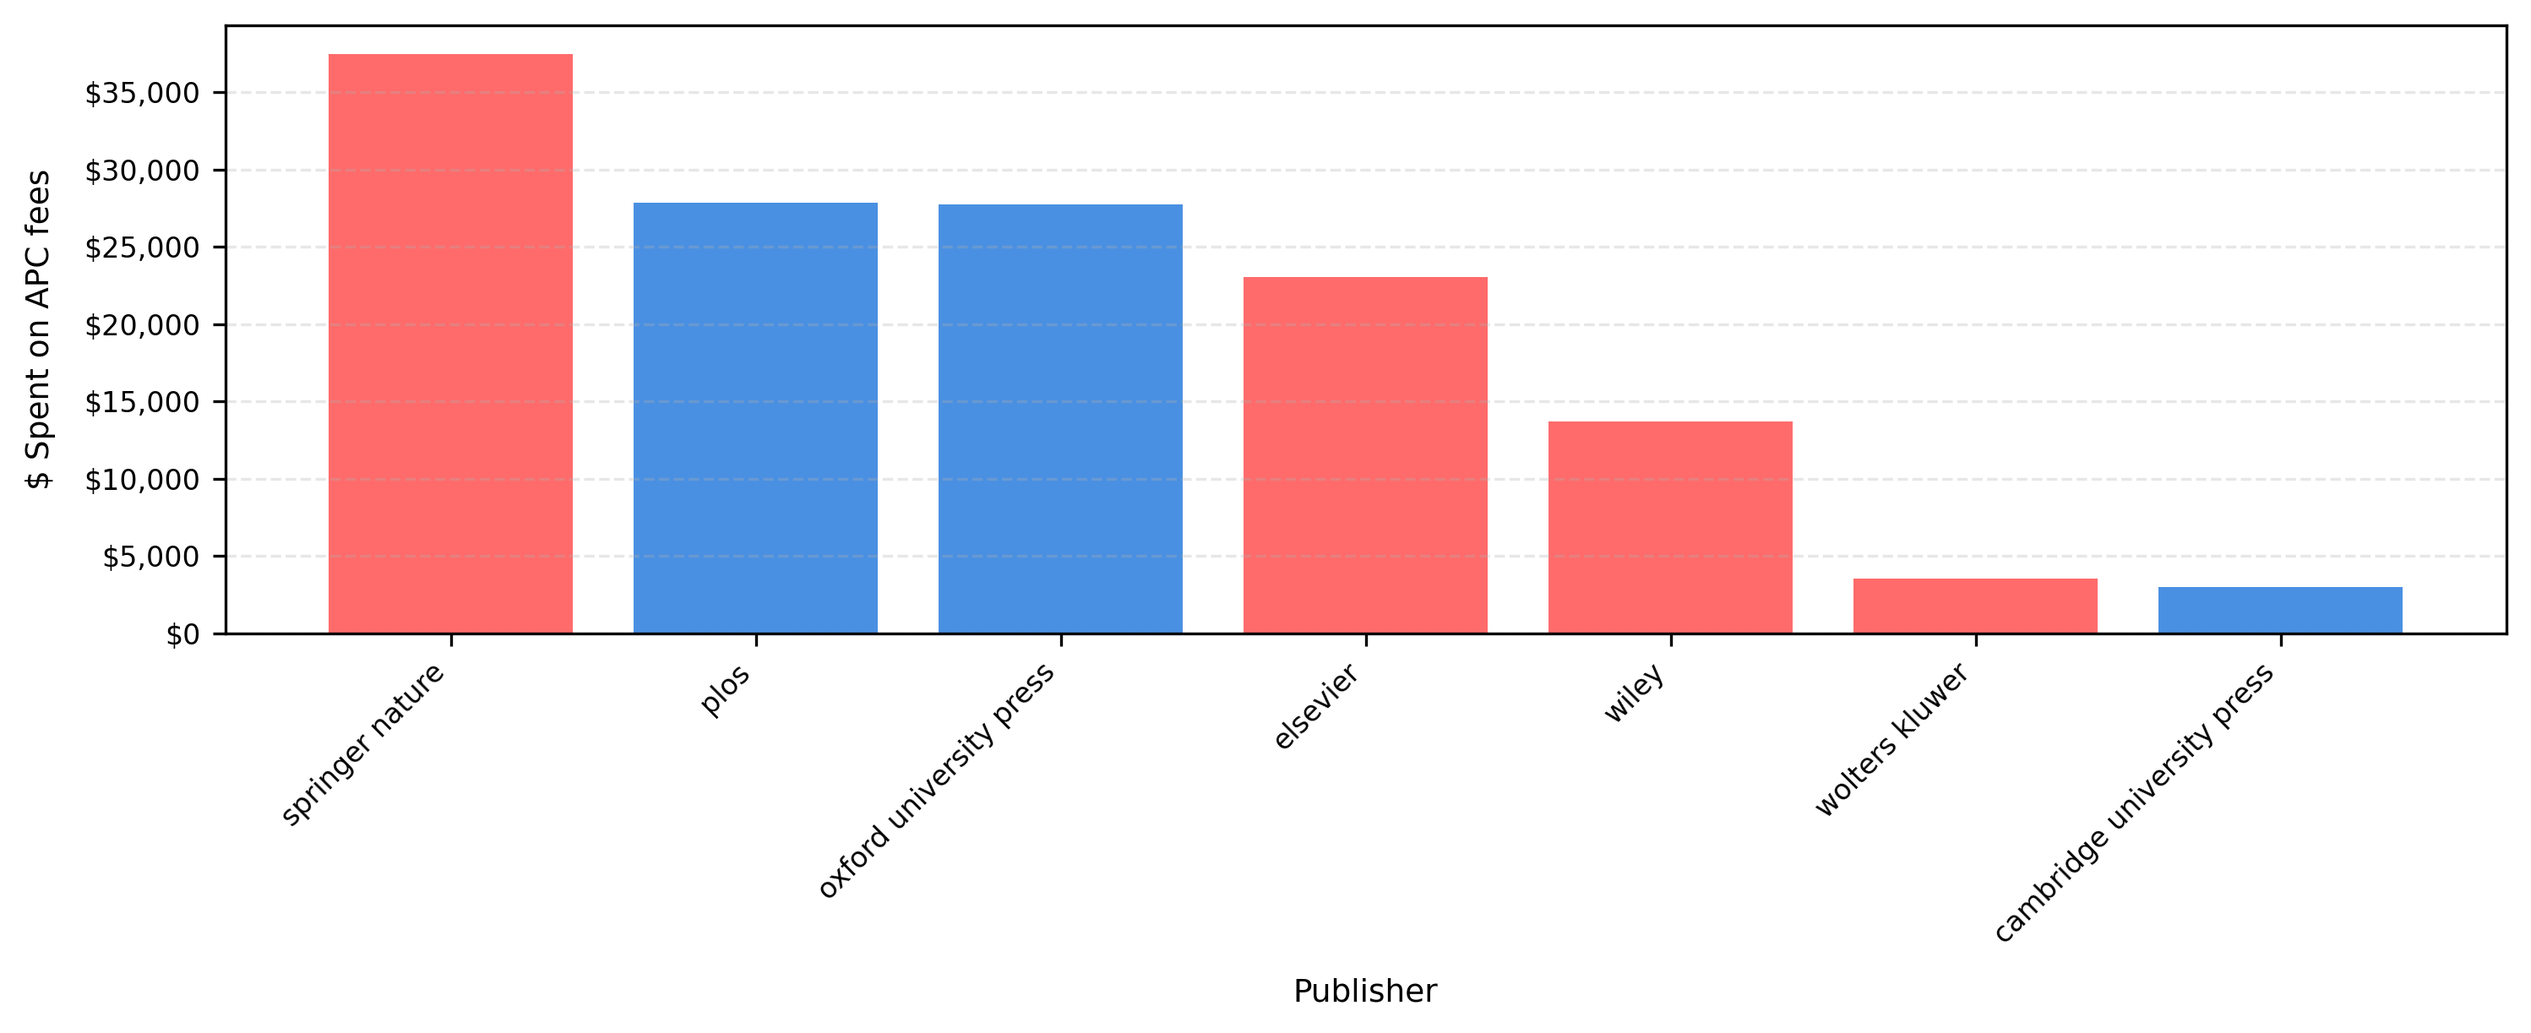
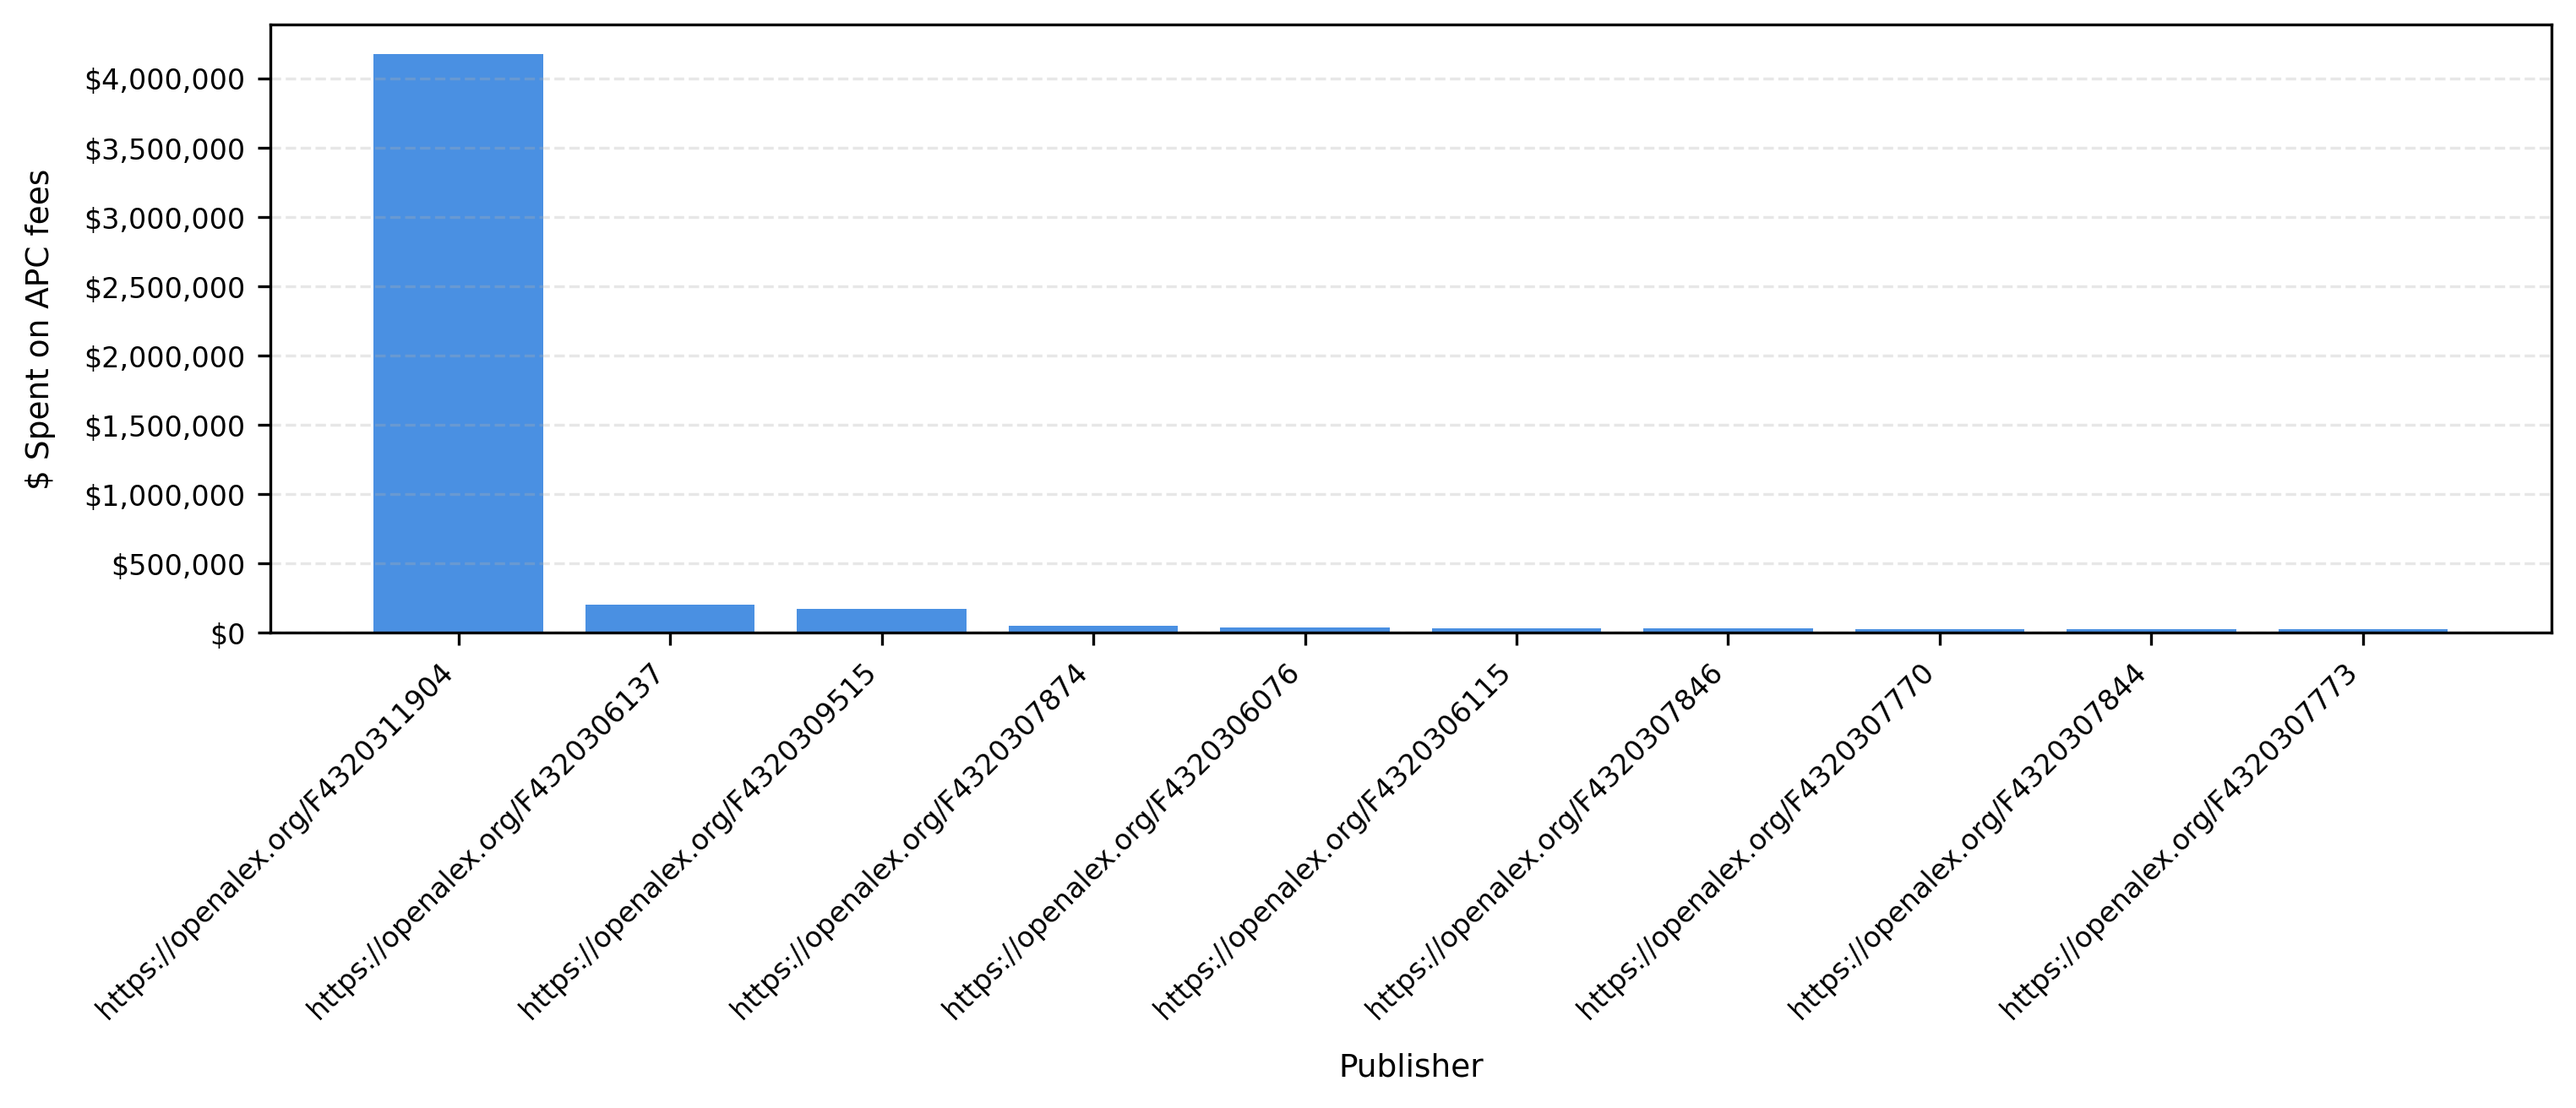
added funder costs
added funder costs

diff --git a/pubanalyser.py b/pubanalyser.py
@@ -4,7 +4,7 @@ from collections import Counter
 import matplotlib.pyplot as plt
 import matplotlib.ticker as mticker
 import pyalex
-from pyalex import Author, Authors, Work, Works, Publisher, Publishers, Institution, Institutions
+from pyalex import Author, Authors, Work, Works, Publisher, Publishers, Institution, Institutions, Funder, Funders
 from rich import print
 from itertools import chain
 from streamlit.logger import get_logger
@@ -131,14 +131,37 @@ def get_publisher_for_work(work: Work) -> str:
     publisher_names.discard('')
     publisher_names.discard(None)
     if len(publisher_names) > 1:
-        print(f"Multiple publishers found for work: {work.get('id')}")
-        print(f"Publishers: {publisher_names}")
-        print(f'Returning the first one: {list(publisher_names)[0]}')
+        # If multiple publishers are found, return the first one.
         return list(publisher_names)[0]
     if len(publisher_names) == 1:
         return list(publisher_names)[0]
     else:
         return 'unknown'
+
+
+def get_funder_for_work(work: Work) -> str:
+    """
+    Retrieve a cleaned/standardized funder name for a given work.
+    This function examines the 'grants' field.
+    If the 'funder' value is a dictionary, it returns the display_name.
+    If it's a string (typically an OpenAlex URL), it strips the URL and returns the ID.
+    If multiple grants are present, the first valid funder is returned.
+    """
+    grants = work.get("grants", [])
+    if not grants:
+        return "unknown"
+    for grant in grants:
+        funder_value = grant.get("funder", {})
+        if isinstance(funder_value, dict):
+            name = funder_value.get("display_name", "unknown")
+            if isinstance(name, str) and name.startswith("https://openalex.org/"):
+                return name.split("/")[-1]
+            return name
+        elif isinstance(funder_value, str):
+            if funder_value.startswith("https://openalex.org/"):
+                return funder_value.split("/")[-1]
+            return funder_value
+    return "unknown"
 
 
 def analyze_publishers(works: list[dict], apply_limit: bool = True):
@@ -187,28 +210,27 @@ def analyze_publishers(works: list[dict], apply_limit: bool = True):
     return publishers, costs, total_cost, for_profit_count, titles, is_oa, dois
 
 
-def create_visualization(publisher_costs, return_fig=True):
-    """Create a bar chart of publisher APC expenditure with for-profit publishers highlighted."""
+def create_visualization(costs_dict, return_fig=True):
+    """Create a bar chart of APC expenditure with for-profit publishers highlighted."""
     fig, ax = plt.subplots(figsize=(10, 3))
-    top_publishers = dict(sorted(publisher_costs.items(), key=lambda x: x[1], reverse=True)[:10])
-    colors = ['#ff6b6b' if p.lower() in FOR_PROFIT_PUBLISHERS else '#4a90e2' for p in top_publishers.keys()]
-    bars = ax.bar(range(len(top_publishers)), list(top_publishers.values()), color=colors)
-    ax.set_xticks(range(len(top_publishers)))
-    ax.set_xticklabels(list(top_publishers.keys()), rotation=45, ha='right', fontsize=9)
+    top_items = dict(sorted(costs_dict.items(), key=lambda x: x[1], reverse=True)[:10])
+    colors = ['#ff6b6b' if k.lower() in FOR_PROFIT_PUBLISHERS else '#4a90e2' for k in top_items.keys()]
+    bars = ax.bar(range(len(top_items)), list(top_items.values()), color=colors)
+    ax.set_xticks(range(len(top_items)))
+    ax.set_xticklabels(list(top_items.keys()), rotation=45, ha='right', fontsize=9)
     plt.subplots_adjust(bottom=0.18, left=0.08, right=0.98, top=0.98)
     ax.set_ylabel('$ Spent on APC fees', fontsize=9, labelpad=8)
     ax.set_xlabel('Publisher', fontsize=9, labelpad=8)
     ax.set_ylim(bottom=0)
     ax.grid(axis='y', linestyle='--', alpha=0.3)
     ax.tick_params(axis='both', which='major', labelsize=8)
-    # Format y-axis with commas and a dollar sign
     ax.yaxis.set_major_formatter(mticker.StrMethodFormatter('${x:,.0f}'))
     if return_fig:
         return fig
     else:
-        plt.savefig('publisher_distribution.png', dpi=300, bbox_inches='tight')
+        plt.savefig('distribution.png', dpi=300, bbox_inches='tight')
         plt.close()
-        return 'publisher_distribution.png'
+        return 'distribution.png'
 
 
 def display_analysis_results(author: Author):
@@ -221,26 +243,24 @@ def display_analysis_results(author: Author):
     if not publications_data:
         st.error("No publications found for this author.")
         return
-    # For authors, we remove the MAX_NUM limit so all publications are analyzed.
     publishers, costs, total_cost, for_profit_count, titles, is_oa, dois = analyze_publishers(publications_data, apply_limit=False)
     total_pubs = len(publishers)
     for_profit_percentage = (for_profit_count / total_pubs * 100) if total_pubs > 0 else 0
-    publisher_costs = {}
+    cost_dict = {}
     for pub, cost in zip(publishers, costs):
-        publisher_costs[pub] = publisher_costs.get(pub, 0) + cost
+        cost_dict[pub] = cost_dict.get(pub, 0) + cost
     st.metric("Total Publications", total_pubs)
     st.metric("For-Profit Publications", f"{for_profit_count} ({for_profit_percentage:.1f}%)")
     st.metric("Total APC (Article Processing Charge) Cost", f"${total_cost:,.2f}")
-    if publisher_costs:
-        fig = create_visualization(publisher_costs)
+    if cost_dict:
+        fig = create_visualization(cost_dict)
         st.pyplot(fig, use_container_width=True)
-        # Add a download button for the figure
-        png_path = create_visualization(publisher_costs, return_fig=False)
+        png_path = create_visualization(cost_dict, return_fig=False)
         with open(png_path, "rb") as file:
             st.download_button(
                 label="Download Figure as PNG",
                 data=file,
-                file_name="publisher_distribution.png",
+                file_name="distribution.png",
                 mime="image/png"
             )
     st.dataframe(pd.DataFrame({
@@ -252,7 +272,7 @@ def display_analysis_results(author: Author):
     }))
     st.markdown("""
         <div style='font-size: 0.8rem; color: #666; border-top: 1px solid #ddd; padding-top: 1rem;'>
-        Analysis for open access Article Processing Charge (APC) fees only. Calculated using costs from openalex.org.
+        Analysis for open access Article Processing Charge (APC) fees only. Calculated using costs from OpenAlex.
         <br>
         Articles with unknown publishers, other publication types, and preprints are excluded.
         <br>
@@ -314,22 +334,21 @@ def display_institution_analysis(institution: dict):
     publishers, costs, total_cost, for_profit_count, titles, is_oa, dois = analyze_publishers(publications_data)
     total_pubs = len(publishers)
     for_profit_percentage = (for_profit_count / total_pubs * 100) if total_pubs > 0 else 0
-    publisher_costs = {}
+    cost_dict = {}
     for pub, cost in zip(publishers, costs):
-        publisher_costs[pub] = publisher_costs.get(pub, 0) + cost
+        cost_dict[pub] = cost_dict.get(pub, 0) + cost
     st.metric("Total Publications", total_pubs)
     st.metric("For-Profit Publications", f"{for_profit_count} ({for_profit_percentage:.1f}%)")
     st.metric("Total APC (Article Processing Charge) Cost", f"${total_cost:,.2f}")
-    if publisher_costs:
-        fig = create_visualization(publisher_costs)
+    if cost_dict:
+        fig = create_visualization(cost_dict)
         st.pyplot(fig, use_container_width=True)
-        # Add a download button for the figure
-        png_path = create_visualization(publisher_costs, return_fig=False)
+        png_path = create_visualization(cost_dict, return_fig=False)
         with open(png_path, "rb") as file:
             st.download_button(
                 label="Download Figure as PNG",
                 data=file,
-                file_name="publisher_distribution.png",
+                file_name="distribution.png",
                 mime="image/png"
             )
     st.dataframe(pd.DataFrame({
@@ -341,7 +360,7 @@ def display_institution_analysis(institution: dict):
     }))
     st.markdown("""
         <div style='font-size: 0.8rem; color: #666; border-top: 1px solid #ddd; padding-top: 1rem;'>
-        Analysis for open access Article Processing Charge (APC) fees only. Calculated using costs from openalex.org.
+        Analysis for open access Article Processing Charge (APC) fees only. Calculated using costs from OpenAlex.
         <br>
         Articles with unknown publishers, other publication types, and preprints are excluded.
         <br>
@@ -356,13 +375,119 @@ def display_institution_analysis(institution: dict):
     """, unsafe_allow_html=True)
 
 
+def search_funders(query: str) -> list:
+    """Search for funders using OpenAlex API."""
+    try:
+        oa_query = Funders().search(query)
+        funders = []
+        for record in chain(*oa_query.paginate(per_page=200)):
+            funders.append(record)
+        return funders
+    except Exception as e:
+        print(f"Error in search_funders: {str(e)}")
+        return []
+
+
+def fetch_publications_funder(funder: dict) -> list:
+    """
+    Fetch funder publications (2024 only), stopping at MAX_NUM records.
+    Filters works by the given funder ID using the grants.funder filter.
+    """
+    with st.spinner('Fetching funder publications (2024 only)...'):
+        try:
+            funder_id = funder.get('id')
+            if funder_id.startswith('https://openalex.org/'):
+                funder_id = funder_id.split('/')[-1]
+            filters = {"grants.funder": funder_id.lower(), "publication_year": 2024}
+            query = Works().filter(**filters)
+            results = []
+            for i, record in enumerate(chain(*query.paginate(per_page=200))):
+                results.append(record)
+                if i >= MAX_NUM - 1:
+                    break
+            return results
+        except Exception as e:
+            return []
+
+
+def display_funder_analysis(funder: dict):
+    """
+    Display analysis results for a funder.
+    Even though the works are fetched via a funder filter,
+    we aggregate and plot the costs by publisher, just like in the author search.
+    """
+    if not funder:
+        st.error("Could not fetch funder details.")
+        return
+    st.subheader(f"Results for {funder.get('display_name', 'Unknown')}")
+    publications_data = fetch_publications_funder(funder)
+    if not publications_data:
+        st.error("No publications found for this funder.")
+        return
+    # Use the same analysis as for authors/institutions (by publisher)
+    publishers, costs, total_cost, for_profit_count, titles, is_oa, dois = analyze_publishers(publications_data)
+    total_pubs = len(publishers)
+    for_profit_percentage = (for_profit_count / total_pubs * 100) if total_pubs > 0 else 0
+    cost_dict = {}
+    for pub, cost in zip(publishers, costs):
+        cost_dict[pub] = cost_dict.get(pub, 0) + cost
+    st.metric("Total Publications", total_pubs)
+    st.metric("For-Profit Publications", f"{for_profit_count} ({for_profit_percentage:.1f}%)")
+    st.metric("Total APC (Article Processing Charge) Cost", f"${total_cost:,.2f}")
+    if cost_dict:
+        fig = create_visualization(cost_dict)
+        st.pyplot(fig, use_container_width=True)
+        png_path = create_visualization(cost_dict, return_fig=False)
+        with open(png_path, "rb") as file:
+            st.download_button(
+                label="Download Figure as PNG",
+                data=file,
+                file_name="distribution.png",
+                mime="image/png"
+            )
+    st.dataframe(pd.DataFrame({
+        'Title': titles,
+        'Publisher': publishers,
+        'DOI': dois,
+        'Estimated APC Cost': costs,
+        'Is OA?': is_oa
+    }))
+    st.markdown("""
+        <div style='font-size: 0.8rem; color: #666; border-top: 1px solid #ddd; padding-top: 1rem;'>
+        Analysis for open access Article Processing Charge (APC) fees only. Calculated using costs from OpenAlex.
+        <br>
+        Articles with unknown publishers, other publication types, and preprints are excluded.
+        <br>
+        Costs obtained from OpenAlex – where not available, estimated to be $1,500.
+        <br>
+        Feedback (<a href="mailto:david.bann@ucl.ac.uk">david.bann@ucl.ac.uk</a>) is welcome.
+        <br>
+        <a href="https://openalex.org/" target="_blank">OpenAlex API</a>
+        &nbsp;&bull;&nbsp;
+        <a href="https://github.com/dbann/pubanalyser" target="_blank">View on GitHub</a>
+        </div>
+    """, unsafe_allow_html=True)
+
+
+# ------------------ Main Application ------------------ #
+
 def main():
     st.title("Publication Cost Tracker")
-    st.write("Discover the hidden costs behind publishing your research. Simply search for an author or an institution to receive a detailed breakdown of publication expenses.")
-    # Two main tabs for Author and Institution analysis.
-    author_tab, institution_tab = st.tabs(["Author Analysis", "Institution Analysis"])
+    st.write("Discover the hidden costs behind publishing scientific research. Search for an author, an institution, or a funder to receive a breakdown of open-access publication expenses.")
+    
+    # Add feedback and contribution links
+    st.markdown("""
+    <div style='font-size: 0.8rem; color: #666;'>
+    Feedback: <a href="mailto:david.bann@ucl.ac.uk">david.bann@ucl.ac.uk</a> &nbsp;&bull;&nbsp;
+    Contribute: <a href="https://github.com/dbann/pubanalyser" target="_blank">GitHub</a>
+    </div>
+    """, unsafe_allow_html=True)
+    
+    # Main tabs with intuitive labels.
+    author_tab, institution_tab, funder_tab = st.tabs(["Costs by Author", "Costs by Institution", "Costs by Funder"])
+    
     with author_tab:
-        # Two sub-tabs for searching by Name or ID.
+        # Sub-tabs for author search.
         by_name, by_id = st.tabs(["By Name", "By ID"])
         with by_name:
             query = st.text_input("Enter an author name", placeholder="e.g., John Smith")
@@ -388,7 +513,9 @@ def main():
                     st.error("Invalid author ID.")
         if st.session_state.get("author_details"):
             display_analysis_results(st.session_state.author_details)
+    
     with institution_tab:
+        st.info("Institution search may be slow (limited to 2024 and max 2000 publications); please be patient.")
         query = st.text_input("Enter an institution name", placeholder="e.g., University of Oxford")
         if query:
             inst_results = search_institutions(query)
@@ -400,6 +527,20 @@ def main():
                 st.error("No institutions found.")
         if st.session_state.get("institution"):
             display_institution_analysis(st.session_state.institution)
+    
+    with funder_tab:
+        st.info("Funder search may be slow (limited to 2024 and max 2000 publications); please be patient.")
+        query = st.text_input("Enter a funder name", placeholder="e.g., Wellcome Trust or National Institutes of Health")
+        if query:
+            funder_results = search_funders(query)
+            if funder_results:
+                for funder in funder_results:
+                    if st.button(funder.get('display_name', 'Unknown'), key=funder.get('id')):
+                        st.session_state.funder = funder
+            else:
+                st.error("No funders found.")
+        if st.session_state.get("funder"):
+            display_funder_analysis(st.session_state.funder)
 
 
 if __name__ == "__main__":
